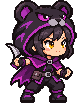
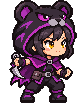
Babies & Beasts: Nin purple/red hold the daggers like gold Nin
Reverse grip kept: the ring stays on top of the fist and the blade now leaves
the bottom of the fist, mirrored so it curves back toward the body (the owner
pointed at gold Nin). Prompts for the younger tiers say the same.

Claude-Session: https://claude.ai/code/session_01TXxUxRZvEUW5HuLc4se7D5

Changed region(s): [[0.0519, 0.4078, 0.2857, 0.5825], [0.1039, 0.6408, 0.3377, 0.7864]]

diff --git a/tools/art/nin_fixgrip.py b/tools/art/nin_fixgrip.py
@@ -1,5 +1,6 @@
 # usage: python3 nin_fixgrip.py <folder holding purple_raw.png red_raw.png made by gptpx.py ... noline>
-# Nin purple/red: GPT drew the dagger blade coming out of the sleeve. Move it into the fist, blade up (forward grip).
+# Nin purple/red: GPT drew the dagger blade coming out of the sleeve under the wrist. Move it so it leaves the fist.
+# modes: revm (game) = reverse grip, blade from the bottom of the fist, mirrored to curve toward the body; rev0 = no mirror; reva = mirrored along the blade; flip = blade up out of the top (ring removed); rot = blade out to the side
 import sys, numpy as np, colorsys
 from PIL import Image
 D=sys.argv[1]
@@ -27,16 +28,25 @@ def blade(a,rows,side,stop):
       if c=='.' or c in stop:break
       cells[(x,y)]=a[y,x].copy()
   return cells
-def fix(a,rows,side,stop,ring,y_end,dx):
+def fix(a,rows,side,stop,ring,y_end,dx,mode='flip'):
   B=blade(a,rows,side,stop)
   for (x,y) in B:a[y,x]=0
   x0,y0,x1,y1=ring
-  for y in range(y0,y1+1):
+  for y in (range(y0,y1+1) if not mode.startswith('rev') else []):
     for x in range(x0,x1+1):
       if cls(a[y,x])!='s':a[y,x]=0
-  top=min(y for _,y in B)
+  top=min(y for _,y in B);bx=round(np.mean([x for x,y in B if y==top]))
   for (x,y),v in B.items():
-    ny=y_end-(y-top);nx=x+dx
+    if mode=='flip':ny=y_end-(y-top);nx=x+dx
+    elif mode.startswith('rev'):
+      u,w=x-bx,y-top
+      if mode=='reva':u,w=((-w,-u) if side=='L' else (w,u))   # mirror across the blade's own line: tip hooks the other way
+      if mode=='revm':u=-u
+      nx,ny=bx+dx+u,y_end+w
+    else:  # turn 90 degrees about the base so the curve keeps GPT's direction
+      u,w=x-bx,y-top
+      if side=='L':nx,ny=bx+dx-w,y_end+u
+      else:nx,ny=bx+dx+w,y_end-u
     if 0<=ny<a.shape[0] and 0<=nx<a.shape[1] and cls(a[ny,nx])!='s':a[ny,nx]=v
 def outline(a):
   h,w=a.shape[:2];pad=np.zeros((h+2,w+2,4),np.uint8);pad[1:-1,1:-1]=a;al=pad[:,:,3]>0
@@ -44,12 +54,13 @@ def outline(a):
   for dy,dx in((1,0),(-1,0),(0,1),(0,-1)):ring|=np.roll(np.roll(al,dy,0),dx,1)
   ring&=~al;pad[ring]=(26,18,22,255);return pad
 # purple: blade rows 64-77 (left side), stop at the purple cuff; ring x11-18 y52-57; blade base goes to row 56, 5 cells right
+M=sys.argv[2] if len(sys.argv)>2 else "revm"  # revm = used in the game (owner: curve toward the body like gold Nin)
 a=np.array(Image.open(D+'purple_raw.png').convert('RGBA'))
-fix(a,range(64,78),'L','p',(11,52,18,57),56,5)
-Image.fromarray(outline(a),'RGBA').save(D+'purple_fix.png')
+fix(a,range(64,78),'L','p',(11,52,18,57),*((64,6) if M.startswith('rev') else (56,5)),M)
+Image.fromarray(outline(a),'RGBA').save(D+'purple_'+M+'.png')
 # red: left blade rows 78-89 stop at red cuff, ring x17-23 y67-72, base to row 70, 4 right
 #      right blade rows 79-89 scanned from the right, ring x68-73 y67-72, base to row 70, 3 left
 a=np.array(Image.open(D+'red_raw.png').convert('RGBA'))
-fix(a,range(78,90),'L','r',(17,67,23,72),70,4)
-fix(a,range(79,90),'R','r',(68,67,73,72),70,-3)
-Image.fromarray(outline(a),'RGBA').save(D+'red_fix.png')
+fix(a,range(78,90),'L','r',(17,67,23,72),*((78,5) if M.startswith('rev') else (70,4)),M)
+fix(a,range(79,90),'R','r',(68,67,73,72),*((78,-4) if M.startswith('rev') else (70,-3)),M)
+Image.fromarray(outline(a),'RGBA').save(D+'red_'+M+'.png')

diff --git a/docs/babies-and-beasts.md b/docs/babies-and-beasts.md
@@ -106,11 +106,11 @@
 ### คำสั่งเจนนิลระดับล่าง (แนบรูปนิลทอง หรือพิมพ์ต่อในแชตเดิม) ส่งทีละอัน
 ส่วนท้ายทุกอัน: `Keep her face, short black bob hair and golden eyes exactly the same. Chibi, big head, pixel art, every pixel a perfect square of the same size, no blur, about 24 colors, 1-pixel dark outline, full body, standing, facing right, plain white background, no sparkles, no text.`
 - ขาว 2 ขวบ: `The SAME girl as the attached picture (Nin), but now a 2-year-old toddler: chubby, very short legs. Soft fluffy black panther pajama kigurumi with round ears and a cute sleepy panther face on the hood. A pacifier on a string around her neck. She holds a small yellow plastic toy dagger. No cape, no gold.`
-- เขียว 4 ขวบ: `… but now 4 years old. Black panther kigurumi with round ears and a panther face on the hood. A green ninja cloth mask over her nose and mouth (eyes fully visible). She holds a wooden toy dagger with the blade pointing up out of the top of her fist. No cape, no gold.`
-- ม่วง 6 ขวบ: `… but now 6 years old. Black panther kigurumi with round ears and a panther face on the hood. A short purple cape. She holds one steel dagger with the blade pointing up out of the top of her fist, ready pose. No gold.`
-- แดง 7 ขวบ: `… but now 7 years old. Black panther kigurumi with red trims, round ears and a panther face with red eyes on the hood. A long red scarf. She holds two steel daggers with the blades pointing up out of the top of her fists, confident smile. No gold.`
+- เขียว 4 ขวบ: `… but now 4 years old. Black panther kigurumi with round ears and a panther face on the hood. A green ninja cloth mask over her nose and mouth (eyes fully visible). She holds a wooden toy dagger like a karambit in a reverse grip, exactly like the gold Nin: ring at the top of her fist, the curved blade comes out of the BOTTOM of her fist (not from her sleeve) and curves back toward her body. No cape, no gold.`
+- ม่วง 6 ขวบ: `… but now 6 years old. Black panther kigurumi with round ears and a panther face on the hood. A short purple cape. She holds one steel dagger like a karambit in a reverse grip, exactly like the gold Nin: ring at the top of her fist, the curved blade comes out of the BOTTOM of her fist (not from her sleeve) and curves back toward her body, ready pose. No gold.`
+- แดง 7 ขวบ: `… but now 7 years old. Black panther kigurumi with red trims, round ears and a panther face with red eyes on the hood. A long red scarf. She holds two steel daggers like a karambit in a reverse grip, exactly like the gold Nin: ring at the top of her fists, the curved blade come out of the BOTTOM of her fists (not from her sleeve) and curves back toward her body, confident smile. No gold.`
 - **นิลม่วง + แดงได้แล้ว (2026-11-03)**: `kid_assassin_purple.png` (77×103) `kid_assassin_red.png` (83×111) · `KART.assassin=['purple','red','gold']` (ขาว/เขียวใช้รูปม่วงไปก่อน)
-- **ปัญหามือถือมีด:** สั่ง "reverse grip" แล้ว GPT วาดใบมีดโผล่จากแขนเสื้อใต้ข้อมือ (เจ้าของเกม: "มือมันถือมีดผิด") → แก้ในภาพพิกเซล `tools/art/nin_fixgrip.py`: ลบใบมีดใต้แขนเสื้อกับห่วงด้ามบนกำปั้น แล้วพลิกใบมีดขึ้นไปออกจากด้านบนกำปั้น (ถือปกติ ใบชี้ขึ้น) · คำสั่งต่อไปใช้ "blade pointing up out of the top of her fist" แทน reverse grip · นิลทองยังถือกลับด้านเหมือนเดิม (เจ้าของเกมไม่ได้ทัก)
+- **ปัญหามือถือมีด:** สั่ง "reverse grip" แล้ว GPT วาดใบมีดโผล่จากแขนเสื้อใต้ข้อมือ (เจ้าของเกม: "มือมันถือมีดผิด") → แก้ในภาพพิกเซล `tools/art/nin_fixgrip.py`: ลบใบมีดใต้แขนเสื้อกับห่วงด้ามบนกำปั้น (ลองให้ใบชี้ขึ้นแล้ว เจ้าของเกมไม่เอา: "ดูของร่างชุดดำ มันโค้งเข้าตัว ไม่ใช่ออกข้าง") → แบบที่ใช้ (`revm`): ถือกลับด้านเหมือนนิลทอง ห่วงอยู่บนกำปั้น ใบมีดออกจากใต้กำปั้น (ทับข้อมือ) และกลับซ้ายขวาให้ปลายโค้งเข้าหาตัว · คำสั่งต่อไปบอกให้เหมือนนิลทอง: ห่วงบนกำปั้น ใบออกจากใต้กำปั้น โค้งเข้าหาตัว
 - แปลงภาพ: `python3 tools/art/gptpx.py <ภาพ GPT> <ออก.png> 14` (ใส่ `noline` ท้ายถ้าจะแก้ภาพก่อนใส่ขอบ)
 
 ## รูปเด็กแต่ละระดับในเกม (ทำแล้ว 2026-11-03)

diff --git a/CLAUDE.md b/CLAUDE.md
@@ -3,7 +3,7 @@
 The owner speaks Thai. Reply in Thai, short and plain (they are not a programmer). They test on a phone (landscape) and on a Windows PC.
 
 ## >>> Current project: Babies & Beasts (`bb.html`) <<<
-Since 2026-11-03 the owner works on the new game **Babies & Beasts: สัญญาณสุดท้าย** — a 5-player elimination tower defense (kids in animal costumes vs nightmare demons). Design, decisions and GPT prompts: `docs/babies-and-beasts.md` (read it first). Code: `bb.html` (single file, same rules as below: exact-string patches, Thai UI). Balance check: `node tools/sim/bb_sim.js 10` (5 bots; knobs in `BAL`, bot styles in `STYLES`). Kid art: `art/bb/kid_<class>.png`, plus per-tier pictures `art/bb/kid_<class>_<white|green|purple|red|gold>.png` listed in `KART` (missing tier → nearest tier's picture; all drawn 78×`TIER.sc` tall). Pixel art facing right; the owner makes them with GPT, then they are snapped to GPT's own pixel grid (majority colour per block, near-identical shades merged, 1-px dark outline). Nin has purple, red and gold (`kid_assassin_*.png`). Converter: `python3 tools/art/gptpx.py in.png out.png 14` (numpy, pillow, scipy). GPT draws "reverse grip" daggers coming out of the sleeve: ask for "blade pointing up out of the top of her fist". Live: https://boxchaychan.github.io/last-signal-pvp/bb.html (GitHub Pages from `main`).
+Since 2026-11-03 the owner works on the new game **Babies & Beasts: สัญญาณสุดท้าย** — a 5-player elimination tower defense (kids in animal costumes vs nightmare demons). Design, decisions and GPT prompts: `docs/babies-and-beasts.md` (read it first). Code: `bb.html` (single file, same rules as below: exact-string patches, Thai UI). Balance check: `node tools/sim/bb_sim.js 10` (5 bots; knobs in `BAL`, bot styles in `STYLES`). Kid art: `art/bb/kid_<class>.png`, plus per-tier pictures `art/bb/kid_<class>_<white|green|purple|red|gold>.png` listed in `KART` (missing tier → nearest tier's picture; all drawn 78×`TIER.sc` tall). Pixel art facing right; the owner makes them with GPT, then they are snapped to GPT's own pixel grid (majority colour per block, near-identical shades merged, 1-px dark outline). Nin has purple, red and gold (`kid_assassin_*.png`). Converter: `python3 tools/art/gptpx.py in.png out.png 14` (numpy, pillow, scipy). GPT draws "reverse grip" daggers coming out of the sleeve; the owner wants them like gold Nin (karambit: ring on top of the fist, blade out of the bottom of the fist, curving back toward the body) — `tools/art/nin_fixgrip.py` mode `revm` fixes a picture, and the prompts in the docs now say so. Live: https://boxchaychan.github.io/last-signal-pvp/bb.html (GitHub Pages from `main`).
 **The old city game (`index.html`, everything below this section) is frozen** (owner: "อันเก่าคงไม่ทำแล้ว"). Keep its files; don't develop it unless asked.
 
 ## What the game is
